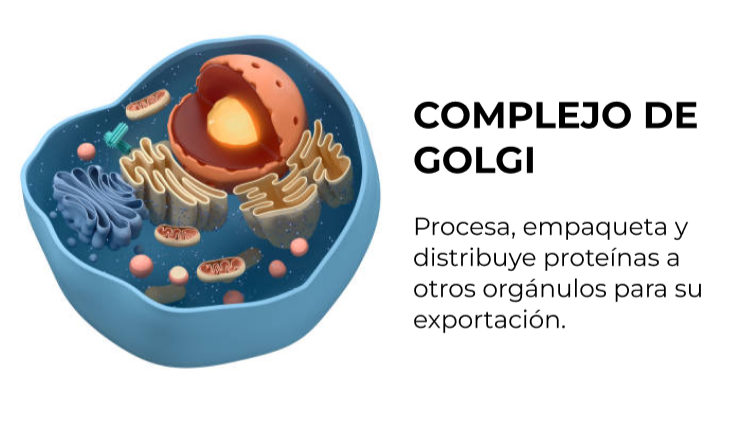
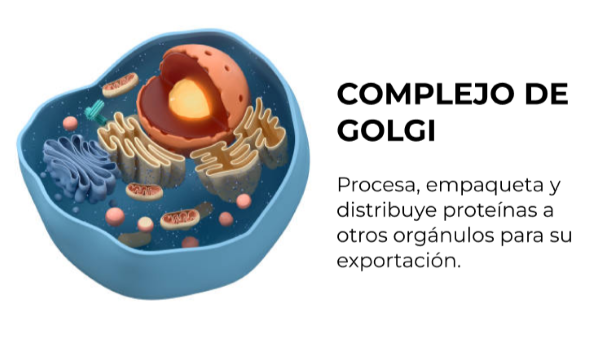
fix: arreglo de estilo de la pagina inicial

diff --git a/index.html b/index.html
@@ -6,16 +6,17 @@
     <title>Inicio</title>
     <link href="https://cdn.jsdelivr.net/npm/bootstrap@5.3.0/dist/css/bootstrap.min.css" rel="stylesheet">
     <link rel="stylesheet" href="css/start.css">
+    <link href='https://fonts.googleapis.com/css?family=Montserrat' rel='stylesheet'>
 </head>
 <body>
 
 <!-- Pantalla de Inicio -->
 <div class="container">
-    <h1 class="text-center mb-5">Juego Interactivo de Célula Animal</h1>
+    <h1 class="text-center mb-5" tabindex="1">Juego Interactivo de Célula Animal</h1>
     <div class="row">
         <div class="col-md-6">
             <!-- Carrusel de Imágenes -->
-            <div id="carouselExampleControls" class="carousel slide" data-bs-ride="carousel" aria-label="Carrusel de imágenes de partes de una célula animal">
+            <div id="carouselExampleControls" tabindex="2" class="carousel slide" data-bs-ride="carousel" aria-label="Carrusel de imágenes de partes de una célula animal">
                 <div class="carousel-inner">
                     <div class="carousel-item active">
                         <img src="images/golgi-info.png" class="d-block w-100" alt="Descripción de la primera imagen">
@@ -38,11 +39,11 @@
             </div>
         </div>
         <div class="col-md-6 instructions">
-            <h2>Instrucciones del Juego</h2>
-            <div><p>Utiliza el cursor para señalar la parte de la celula solicitada.</p></div>
-            <div><p>Acumula aciertos antes de que el tiempo se acabe.</p></div>
-            <div><p>Acierta todas las partes correctamente y gana!</p></div>
-            <button id="start-game-btn" class="btn btn-primary btn-lg mt-4 w-50">Iniciar Juego</button>
+            <h2 tabindex="3">Instrucciones del Juego</h2>
+            <div tabindex="4"><p>1. Utiliza el cursor para señalar la parte de la celula solicitada.</p></div>
+            <div tabindex="5"><p>2. Acumula aciertos antes de que el tiempo se acabe.</p></div>
+            <div tabindex="6"><p>3. Acierta todas las partes correctamente y gana!</p></div>
+            <button id="start-game-btn" tabindex="7" class="btn btn-primary btn-lg mt-4 w-50">Iniciar Juego</button>
         </div>
     </div>
 </div>

diff --git a/css/start.css b/css/start.css
@@ -7,6 +7,32 @@ html, body {
 body {
     display: flex;
     flex-direction: column;
+    font-family: 'Montserrat';font-size: 16px;
+}
+
+p {
+    margin-right: 50px;
+}
+
+h1 {
+    padding-top: 2%;
+}
+
+.carousel{
+    border-radius: 20px;
+    margin: 0 10%;
+    margin-top: 5%;
+    -webkit-box-shadow: 10px 10px 30px -9px rgba(0,0,0,0.63);
+-moz-box-shadow: 10px 10px 30px -9px rgba(0,0,0,0.63);
+box-shadow: 10px 10px 30px -9px rgba(0,0,0,0.63);
+}
+
+.carousel-item{
+    border-radius: 20px;
+}
+
+.carousel-inner{
+    border-radius: 20px;
 }
 
 .container {
@@ -15,6 +41,15 @@ body {
     flex-direction: column;
     justify-content: center;
     align-items: center;
+    margin-top: 5%;
+    margin-bottom: 8%;
+    width: 75%;
+    border-radius: 50px;
+    background-color: #268eae;
+    color: #ffffff;
+    -webkit-box-shadow: 10px 10px 30px -9px rgba(0,0,0,0.63);
+-moz-box-shadow: 10px 10px 30px -9px rgba(0,0,0,0.63);
+box-shadow: 10px 10px 30px -9px rgba(0,0,0,0.63);
 }
 
 .instructions {
@@ -38,4 +73,19 @@ body {
 
 .instructions button {
     margin-top: 20px;
+    margin-bottom: 50px;
+    -webkit-box-shadow: 10px 10px 30px -9px rgba(0,0,0,0.63);
+-moz-box-shadow: 10px 10px 30px -9px rgba(0,0,0,0.63);
+box-shadow: 10px 10px 30px -9px rgba(0,0,0,0.63);
+    background-color: #d9d9d9;
+    color: black;
+    font-weight: bolder;
+    border-radius: 30px;
+}
+
+.carousel-control-prev, .carousel-control-next {
+    background-color: #000;
+    height: 20%;
+    margin-top: 23%;
+    border-radius: 25px;
 }
